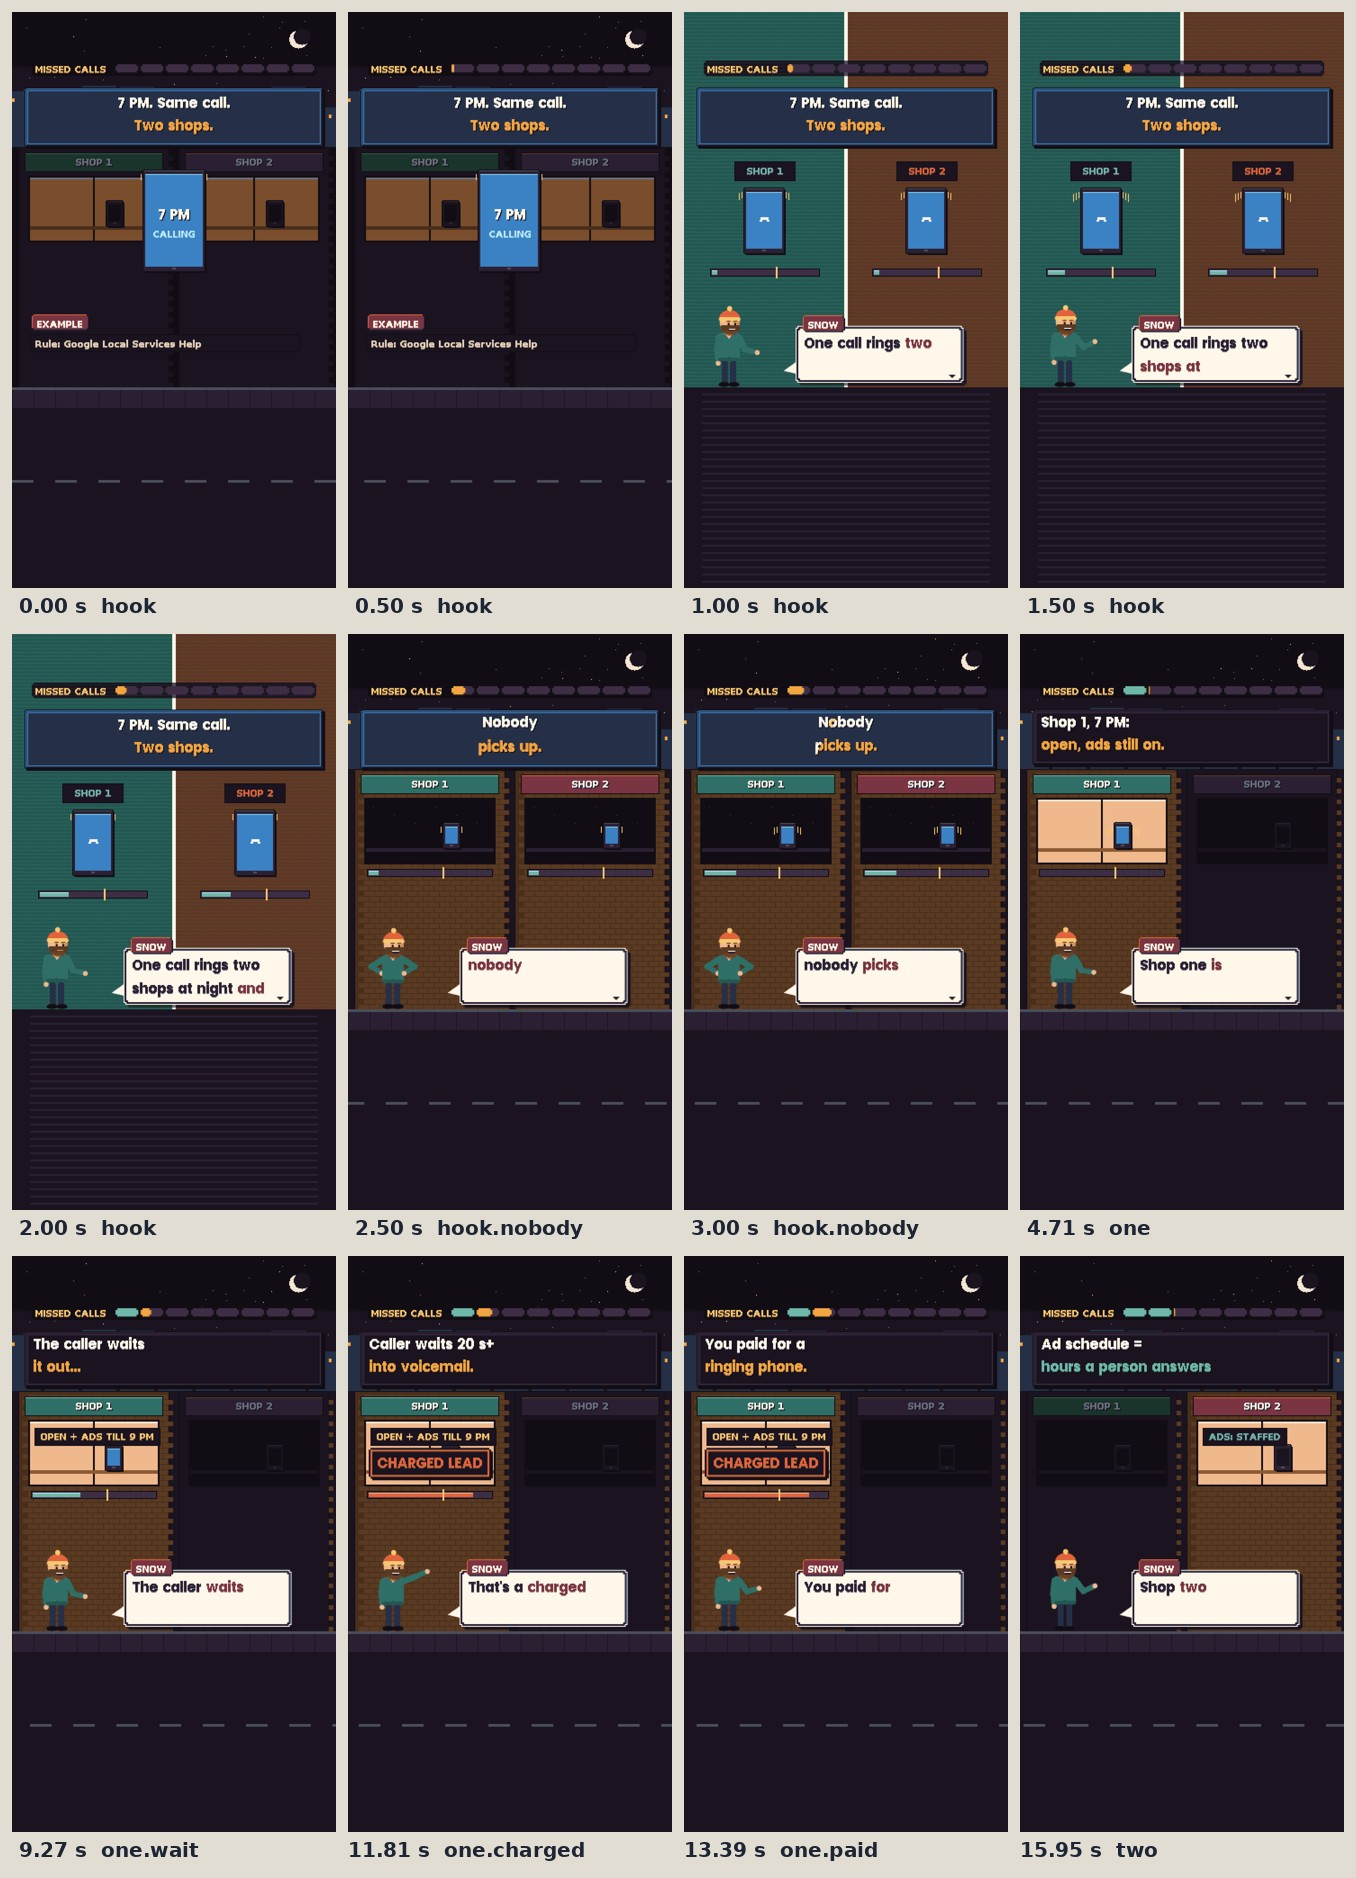
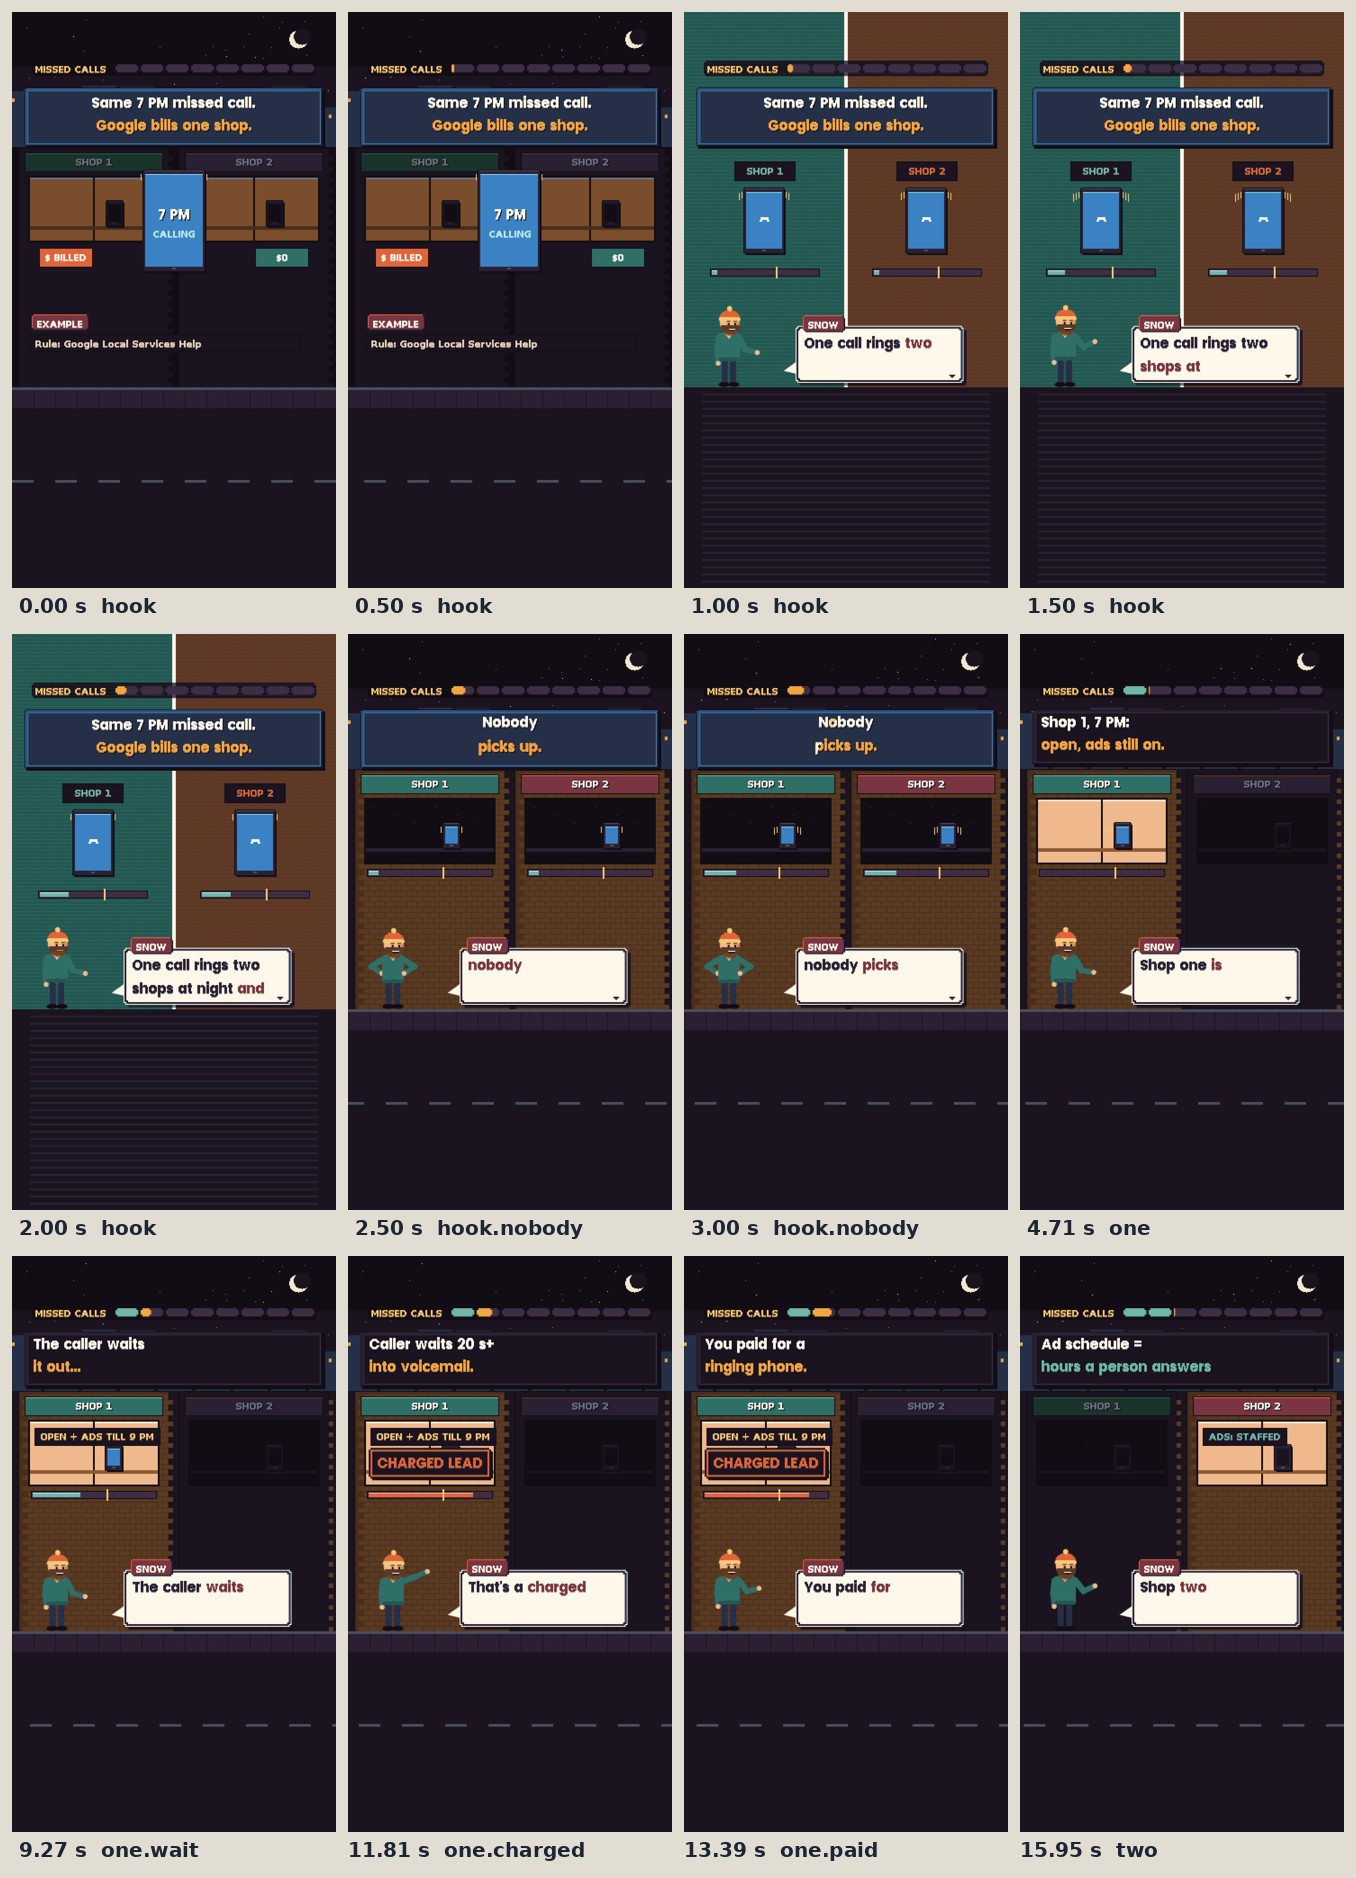
Studio: lsa-missed-calls hook states the stake (plate 'Google bills one shop.', billed and $0 tags on the cover) after the buyer gate's round 0
Claude-Session: https://claude.ai/code/session_01XMn4eGkzWf55NsXN1sXYKS

diff --git a/video/studio/videos/2026-11-11-lsa-missed-calls/04_scene/scene.js b/video/studio/videos/2026-11-11-lsa-missed-calls/04_scene/scene.js
@@ -171,7 +171,7 @@ window.SCENE = {
       }
       if (T >= tIn) {
         const d = closeup(k, {barAt: tIn});
-        hookPlate(k, d, [`${n.callAt.shown}. Same call.`, 'Two shops.']);
+        hookPlate(k, d, [`Same ${n.callAt.shown} missed call.`, 'Google bills one shop.']);
         return host(k);
       }
       const d = street(k, {lit: [true, true], ring: [false, false]});
@@ -179,9 +179,11 @@ window.SCENE = {
       /* phone ringing in front of both shops, the call time on its screen                                              */
       k.ctx.save(); k.ctx.globalAlpha = 0.6; d.P(0, 150, 360, 267, '#120D14'); k.ctx.restore();
       phone(d, 146, 176, 68, 112, {ring: true, screen: '#3B82C4'});
+      d.P(30, 262, 60, 22, INK); d.P(31, 263, 58, 20, RED); d.tx('$ BILLED', 60, 266, {size: 30, color: CREAM, align: 'center'});
+      d.P(270, 262, 60, 22, INK); d.P(271, 263, 58, 20, '#2F6F67'); d.tx('$0', 300, 266, {size: 30, color: CREAM, align: 'center'});
       k.text(n.callAt.shown, 540, 642, {size: 66, color: CREAM, align: 'center', drop: INK});
       k.text('CALLING', 540, 720, {size: 39, color: '#BDE6F5', align: 'center'});
-      hookPlate(k, d, [`${n.callAt.shown}. Same call.`, 'Two shops.']);
+      hookPlate(k, d, [`Same ${n.callAt.shown} missed call.`, 'Google bills one shop.']);
       k.chip('EXAMPLE', 66, 1008, {size: 30});
       d.P(20, 358, 300, 20, INK); d.P(21, 359, 298, 18, '#1B1420');
       k.text('Rule: Google Local Services Help', 78, 1086, {size: 39, color: SAND});
